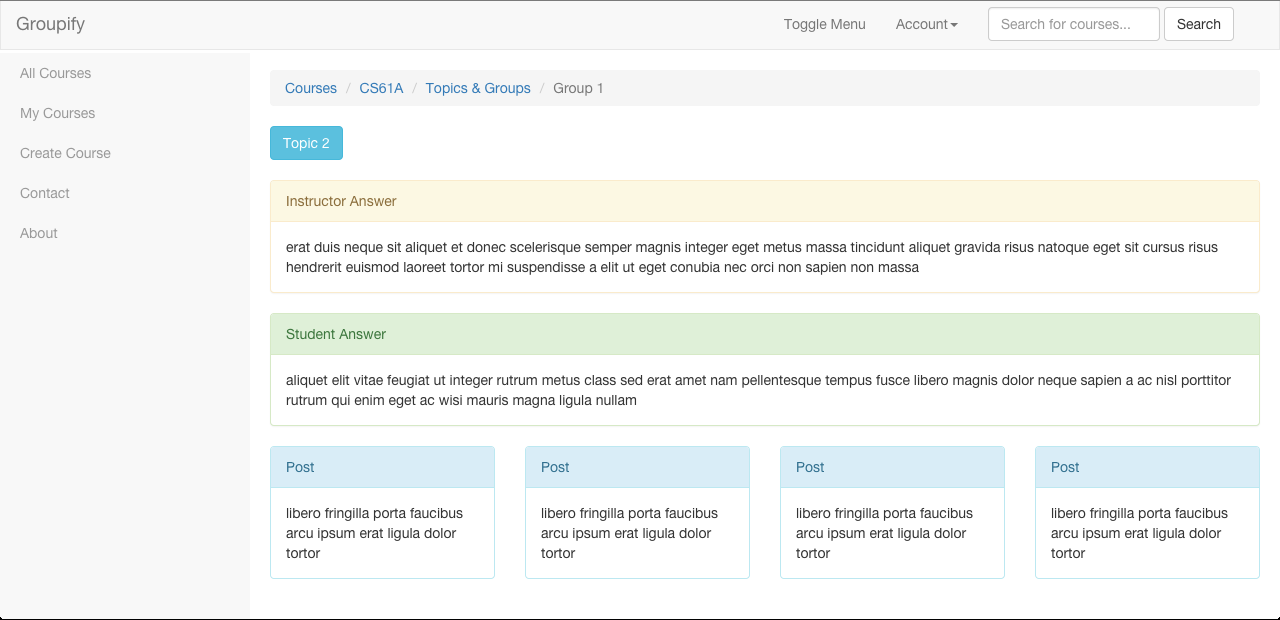
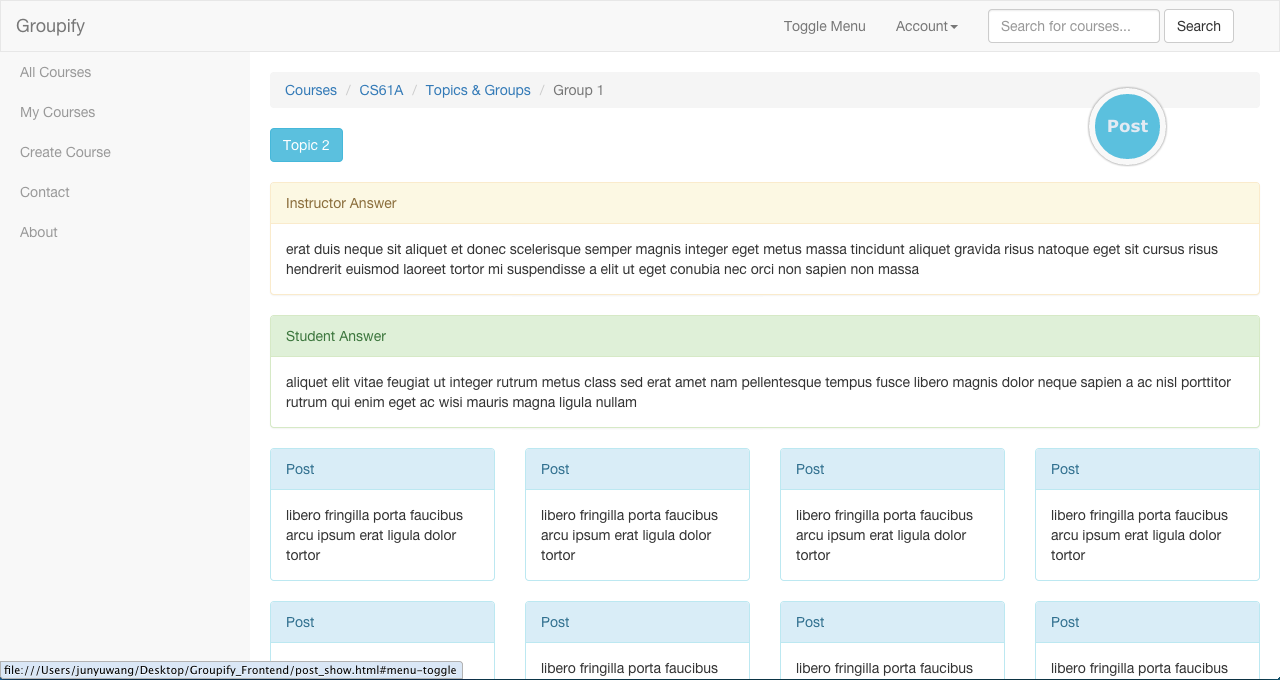
update readme

diff --git a/README.md b/README.md
@@ -11,7 +11,7 @@ Page Structure, Course index page, Group/Topic index page, post index page, post
 
 To Do
 ---
-post show page, repy form.
+repy form.
 
 Demo
 ---
@@ -39,7 +39,7 @@ After you join one of the courses, you get access to it and by clicking the "Go"
 [topicGroupIndex]: screenshot/group-topic-index-page.png
 ***
 
-And as you might have noticed, on the top bar there's a "Toggle" button, this button lets you expand the size of the content page.
+And as you might have noticed, on the top bar there's a "Toggle" button (you can either click it or press "Enter"), this button lets you expand the size of the content page.
 
 ![topic/group index left toggle][topicGroupIndexLeftToggle]
 [topicGroupIndexLeftToggle]: screenshot/group-topic-index-left-toggle.png
@@ -57,7 +57,7 @@ When you clicked one of the graph button, a modal with its name, corresponding t
 [groupShow]: screenshot/group-show-toggle.png
 ***
 
-If you are an instructor account (which is true in this demo) you should see "watch" and "delete" in the modal, if you are a student you shoul expect to see "Go" instead. By click either "watch" or "Go", you get into the page contains the posts, topic, student answer and instructor answer of the topic, like a online discussion platform.
+If you are an instructor account (which is true in this demo) you should see "watch" and "delete" in the modal, if you are a student you shoul expect to see "Go" instead. By click either "watch" or "Go", you get into the page contains the posts, topic, student answer and instructor answer of the topic, like a online discussion platform. And that rounded button "Post" will follow you as you scroll so that you can make a new post whenever you want.
 
 ![post index][PostIndex]
 [PostIndex]: screenshot/post-index-page.png 
@@ -65,8 +65,14 @@ If you are an instructor account (which is true in this demo) you should see "wa
 
 And if you click one of the post, its title and content will pop out.
 
-![post show][postShow]
-[postShow]: screenshot/post-show-toggle.png
+![post show toggle][postShowToggle]
+[postShowToggle]: screenshot/post-show-toggle.png
 ***
+
+After you click "Show discussion", you will be directed to the post show page, which hierachically displays the post, followups and discussions about the followups.
+
+![post show][postShow]
+[postShow]: screenshot/post-show-page.png
+
 
 
